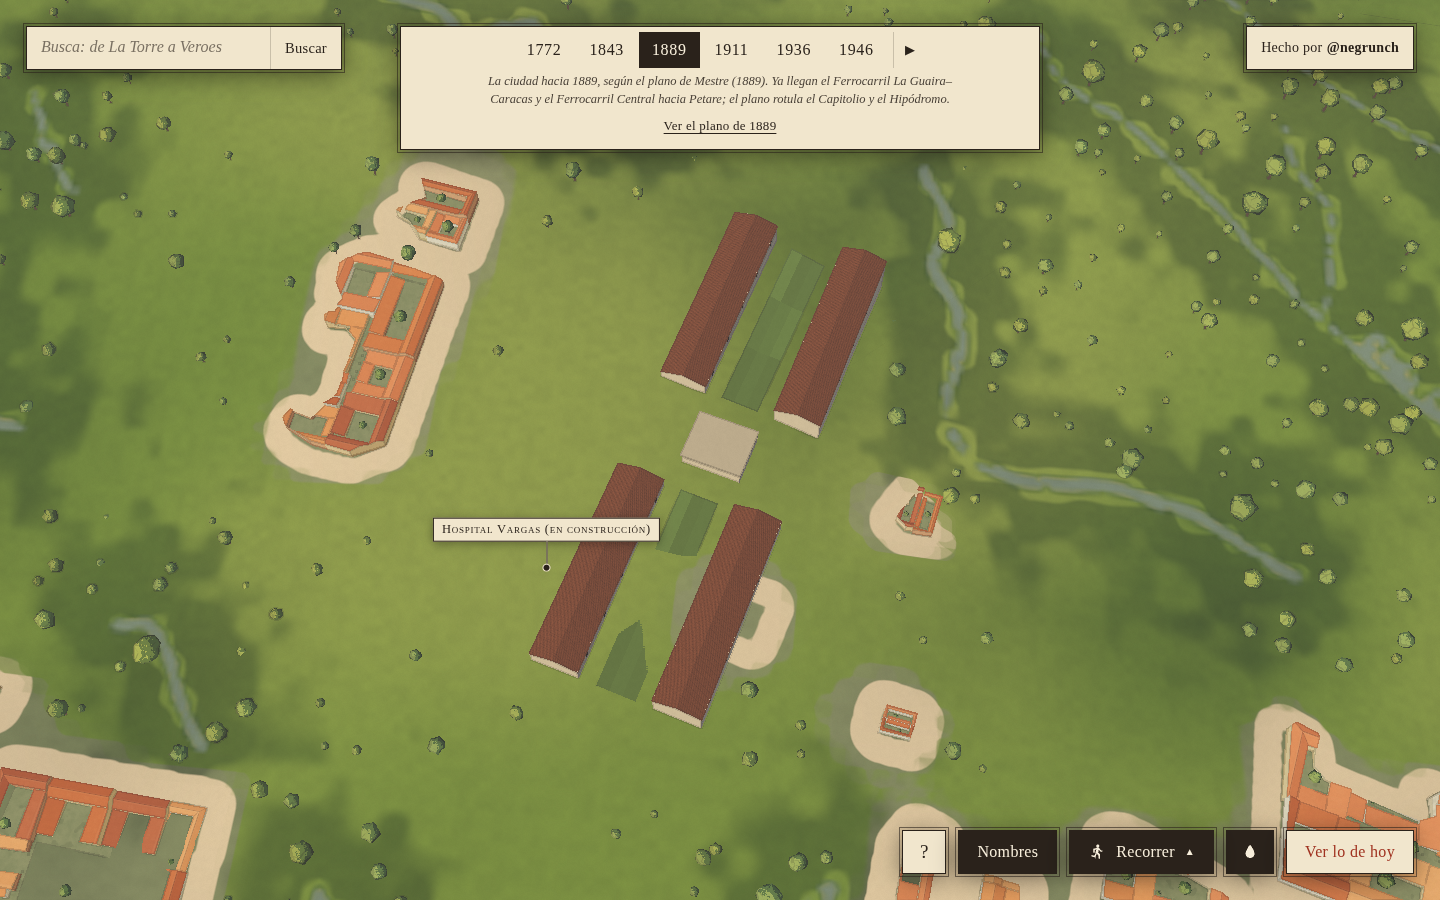
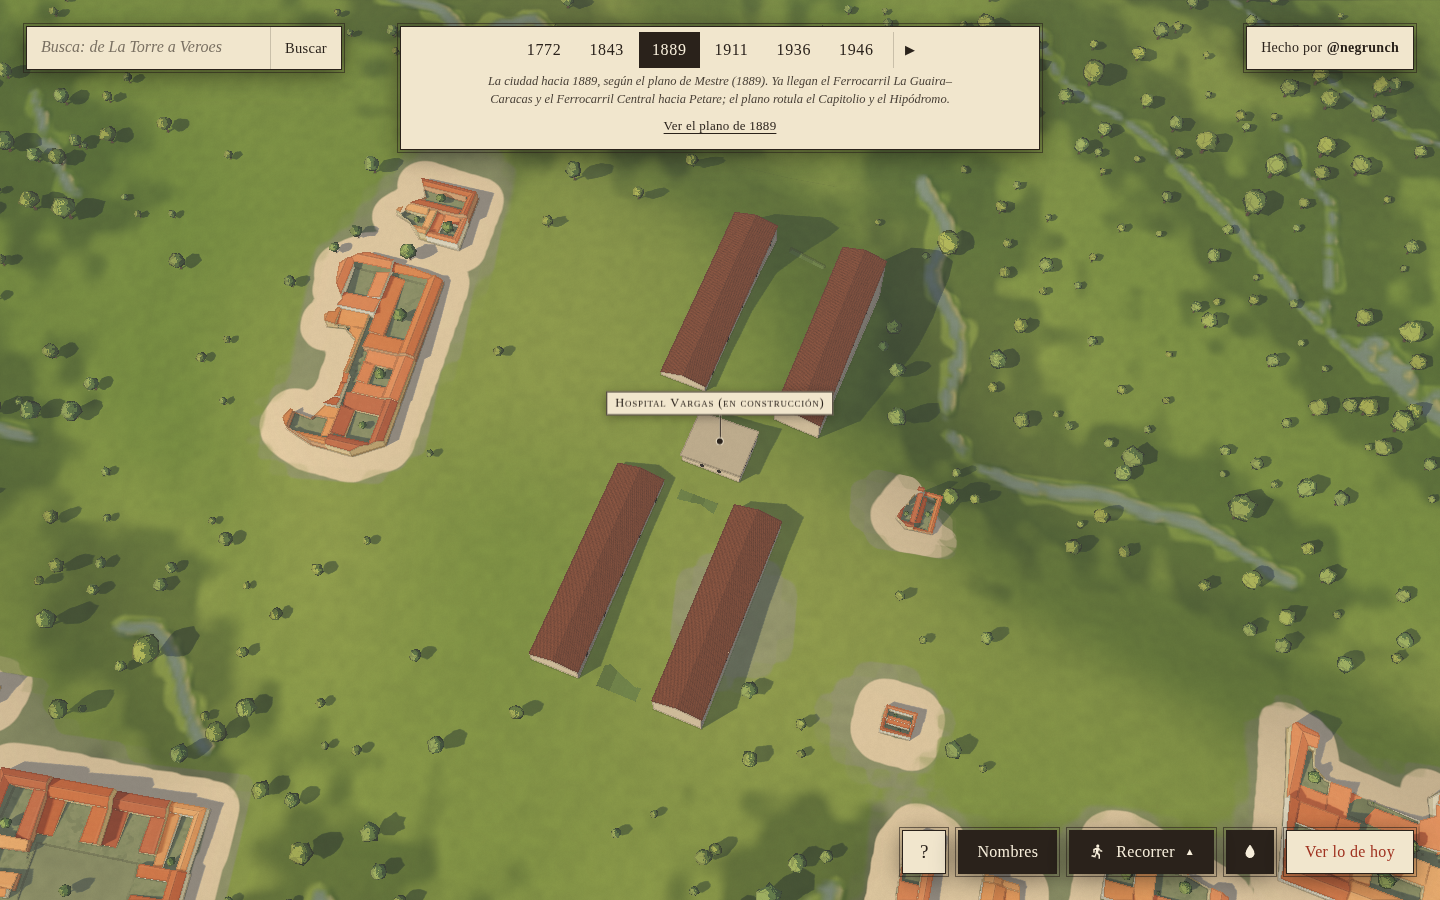
fix: vanos del núcleo del Hospital Vargas, marca enlazada al hito y ficha de 1936 y 1946 (#249) (#306)
* test: los vanos del núcleo del Hospital Vargas quedan en sus muros exteriores

Regresión de #249: los ocho vanos del núcleo de administración quedaban dentro de
su caja de 28 × 23 m y no se veían. Falla en main.

Claude-Session: https://claude.ai/code/session_016wLvLzPGE3irYQgPfs9SqY

* fix: vanos del núcleo del Hospital Vargas en sus muros exteriores

Los ocho vanos del núcleo de administración quedaban dentro de su caja de
28 × 23 m (x = ±8, z ≤ ±11,2) y no se veían en ninguna época. Ahora van dos
por fachada sobre los muros (±14,04 y ±11,54), mirando hacia afuera, como en
las salas. Trae el commit 2daee7a de feat/hospital-vargas, que quedó sin PR.

Refs #249

Claude-Session: https://claude.ai/code/session_016wLvLzPGE3irYQgPfs9SqY

* test: la marca del Hospital Vargas va enlazada al hito y la ficha cuenta 1936 y 1946

Refs #249

Claude-Session: https://claude.ai/code/session_016wLvLzPGE3irYQgPfs9SqY

* docs: evidencia por etapa del Hospital Vargas, reglas y lo que falta; capturas en las seis épocas

Refs #249

Claude-Session: https://claude.ai/code/session_016wLvLzPGE3irYQgPfs9SqY

* fix: la marca del Hospital Vargas va enlazada a su hito y la ficha cuenta 1936 y 1946

El rótulo caía a unos 96 m del centro, en el borde del solar; ahora toma la
posición del hito. La ficha gana el texto de las cubiertas planas (Caracas en
450: platabandas desde 1930, sin fecha por pabellón) y la duda de los anexos
de 1939. La marca ya no dice «hito arquitectónico pendiente».

Refs #249
[…]

diff --git a/tests/unit/hospital-vargas.test.js b/tests/unit/hospital-vargas.test.js
@@ -4,6 +4,13 @@ import { HITOS, construirHitos, validarHitos, zonasDeSupresion } from '../../src
 import { hitosConPlanta } from '../../src/hitos/plantas.js'
 import { hospitalVargas } from '../../src/hitos/datos/hospital-vargas.js'
 import { parteDe } from '../../src/hitos/partes.js'
+import { crearLienzo, lineal } from '../../src/hitos/lienzo.js'
+import { TONO } from '../../src/hitos/piezas.js'
+import { hospitalVargas as dibujarHospital } from '../../src/hitos/hospital-vargas.js'
+import { MARCAS } from '../../src/marcas-datos.js'
+import { FICHAS } from '../../src/fichas-datos.js'
+import { normalizarMarcas } from '../../src/marcas.js'
+import { contenidoDeFicha } from '../../src/fichas.js'
 
 const plano = { ancho: 18600, alto: 14800, metro: 0.5, plaza: [8968.2, 6839] }
 const coords = crearCoords(plano)
@@ -32,5 +39,64 @@ describe('Hospital Vargas', () => {
     const vidas = new Set()
     for (let i = rango.desde; i < rango.hasta; i++) vidas.add(`${datos.vidas[2 * i]}/${datos.vidas[2 * i + 1]}`)
     expect(vidas).toEqual(new Set(['3/4', '4/5', '5/0']))
+  })
+
+  test('los vanos del núcleo central quedan en sus muros exteriores, a la vista', () => {
+    // Núcleo de 28 × 23 m centrado en el origen; las salas quedan lejos (a = ±28, b = ±73).
+    const MEDIO_ANCHO = 14, MEDIO_FONDO = 11.5
+    const vano = lineal(TONO.VANO)
+    for (const anio of [1889, 1911, 1936]) {
+      const lienzo = crearLienzo()
+      dibujarHospital(lienzo.hito({ origen: { x: 0, z: 0 } }), { anio })
+      const { posiciones, colores, normales } = lienzo.datos()
+      const delNucleo = []
+      for (let i = 0; i < posiciones.length / 3; i++) {
+        const [x, z] = [posiciones[3 * i], posiciones[3 * i + 2]]
+        const esVano = [0, 1, 2].every(k => Math.abs(colores[3 * i + k] - vano[k]) < 1e-6)
+        if (esVano && Math.abs(x) < MEDIO_ANCHO + 2 && Math.abs(z) < MEDIO_FONDO + 2) delNucleo.push({ x, z, nx: Math.round(normales[3 * i]), nz: Math.round(normales[3 * i + 2]) })
+      }
+      const escondidos = delNucleo.filter(({ x, z }) => Math.abs(x) < MEDIO_ANCHO && Math.abs(z) < MEDIO_FONDO)
+      expect(escondidos, `${anio}`).toEqual([])
+      // Ocho vanos rectangulares (cuatro vértices cada uno): dos en cada una de las cuatro caras del núcleo.
+      expect(delNucleo, `${anio}`).toHaveLength(8 * 4)
+      const porCara = Map.groupBy(delNucleo, v => `${v.nx}/${v.nz}`)
+      expect([...porCara.keys()].sort(), `${anio}`).toEqual(['-1/0', '0/-1', '0/1', '1/0'])
+      for (const [cara, vertices] of porCara) {
+        const [nx, nz] = cara.split('/').map(Number)
+        // dos vanos por cara, uno a cada lado del eje, de 1,8 m de ancho
+        const alLargo = vertices.map(v => (nx ? v.z : v.x))
+        expect(vertices, `${anio} ${cara}`).toHaveLength(2 * 4)
+        expect(alLargo.filter(u => u < 0), `${anio} ${cara}`).toHaveLength(4)
+        expect(alLargo.filter(u => u > 0), `${anio} ${cara}`).toHaveLength(4)
+        // cada uno sobre su muro, del lado de afuera, y con la normal hacia afuera
+        for (const v of vertices) {
+          const afuera = nx ? v.x * nx - MEDIO_ANCHO : v.z * nz - MEDIO_FONDO
+          expect(afuera, `${anio} ${cara}`).toBeGreaterThan(0)
+          expect(afuera, `${anio} ${cara}`).toBeLessThan(0.2)
+        }
+      }
+    }
+  })
+  test('la marca va enlazada al hito y cae sobre su núcleo, no en el borde del solar', () => {
+    const dato = MARCAS.find(m => m.id === 'hospital-vargas')
+    expect(dato.hito).toBe('hospital-vargas')
+    expect(dato.x).toBeUndefined()
+    expect(dato.y).toBeUndefined()
+    const marca = normalizarMarcas(MARCAS, { hitos: HITOS, coords }).find(m => m.id === 'hospital-vargas')
+    expect([marca.px, marca.py]).toEqual([hospitalVargas.x, hospitalVargas.y])
+    expect(marca.nace).toBe(3)
+    expect(dato.dudas).not.toMatch(/pendiente/i)
+  })
+
+  test('la ficha cuenta las cubiertas planas desde 1936 y deja los anexos de 1939 como duda', () => {
+    const marca = normalizarMarcas(MARCAS, { hitos: HITOS, coords }).find(m => m.id === 'hospital-vargas')
+    const rige = epoca => contenidoDeFicha({ marca, ficha: FICHAS['hospital-vargas'], epoca }).parrafos.find(p => p.rige).texto
+    expect(rige(4)).not.toMatch(/platabanda/)
+    for (const epoca of [5, 6]) {
+      expect(rige(epoca)).toMatch(/platabandas/)
+      expect(rige(epoca)).toMatch(/1891/)
+    }
+    expect(FICHAS['hospital-vargas'].dudas).toMatch(/1939/)
+    expect(FICHAS['hospital-vargas'].dudas).toMatch(/1889/)
   })
 })

diff --git a/src/marcas-datos.js b/src/marcas-datos.js
@@ -148,9 +148,9 @@ export const MARCAS = Object.freeze([
   { id: 'san-carlos', nombres: [[2, 'Cuartel Veterano'], [3, 'Cuartel San Carlos']], x: 9150, y: 4980, nace: 2, nivel: 3, alto: 9,
     fuente: `${L43('s', 'Cuartel veterano')}; ${P89} (21 «Cuartel San Carlos»); ${P36} (edificio de patio); Mariana Flores, Cuartel San Carlos. Yacimiento veterano (2007): https://dialnet.unirioja.es/descarga/articulo/2321930.pdf`,
     dudas: 'Flores sitúa la construcción entre 1785 y 1790. No se representan obras en 1772. Hito arquitectónico pendiente: se conserva la posición del rótulo existente, no un nuevo levantamiento del edificio.' },
-  { id: 'hospital-vargas', nombres: [[3, 'Hospital Vargas (en construcción)', 'Las obras iniciadas en 1888 figuran en el plano de 1889.'], [4, 'Hospital Vargas', 'Inaugurado y puesto en funcionamiento en 1891.']], x: 9660, y: 4640, nace: 3, nivel: 2, alto: 9,
-    fuente: `${P89} (43 «Hospital Vargas»); ${P36} («Hospital Vargas»); Roger Escalona, Sociedad Venezolana de Historia de la Medicina (2006): https://revista.svhm.org.ve/ediciones/2006/1-2/art-3`,
-    dudas: 'La planta dibujada en 1889 no demuestra que todas sus alas estuvieran terminadas. Hito arquitectónico pendiente; no se reproduce un estado exacto de avance de obra.' },
+  { id: 'hospital-vargas', hito: 'hospital-vargas', nombres: [[3, 'Hospital Vargas (en construcción)', 'Las obras iniciadas en 1888 figuran en el plano de 1889.'], [4, 'Hospital Vargas', 'Inaugurado y puesto en funcionamiento en 1891.']], nace: 3, nivel: 2, alto: 9,
+    fuente: `${P89} (43 «Hospital Vargas»); ${P36} («Hospital Vargas»); Roger Escalona, Sociedad Venezolana de Historia de la Medicina (2006): https://revista.svhm.org.ve/ediciones/2006/1-2/art-3; platabandas desde 1930, Caracas en 450: https://banesco-prod-2019.s3.amazonaws.com/wp-content/uploads/Caracas-en-450.pdf`,
+    dudas: 'La planta dibujada en 1889 no demuestra que todas sus alas estuvieran terminadas: el modelo de ese año levanta lo que dibuja el plano, no un avance de obra medido. Las ampliaciones de 1939 no tienen planta que las ubique y no se modelan.' },
   { id: 'hijos-de-dios', nombre: 'Cementerio de los Hijos de Dios', hito: 'hijos-de-dios', alto: 5.5, nace: 3, nivel: 3, nota: 'Recinto clausurado, todavía en pie.', fuente: `${P36} («Cementerio de los Hijos de Dios»); ${P89} (cementerio a, «Concepción»); equivalencia de nombres: https://biblat.unam.mx/hevila/BoletindelaAcademiaNacionaldelaHistoriaCaracas/2009/vol92/no365/5.pdf; cronología: https://fundaayc.com/2018/02/09/1951-desaparece-el-cementerio-de-los-hijos-de-dios/`,
     dudas: 'Abierto en 1856, cerrado al uso en el siglo XIX y demolido después de 1946. Cerrar el cementerio no hizo desaparecer sus muros y nichos. Hito pendiente de integración; se conserva el ancla cartográfica existente.' },
   { id: 'san-jose', hito: 'san-jose', nombre: 'San José', nace: 4, nivel: 3, alto: 18, fuente: `${P36} («Iglesia San José»); ${P11} (dibuja el templo, con planta en cruz); IPC, Lo construido: https://albaciudad.org/wp-content/uploads/2017/01/Libertador-Construido2.pdf (pp. 125–126 y 148)`,

diff --git a/src/fichas-datos.js b/src/fichas-datos.js
@@ -310,8 +310,9 @@ export const FICHAS = Object.freeze({
     textos: [
       [3, 'Las obras del Hospital Vargas comenzaron en 1888. El plano de Mestre de 1889 ya dibuja su planta y lo identifica con el número 43, pero el hospital aún no estaba inaugurado.'],
       [4, 'El Hospital Vargas fue inaugurado el 1 de enero de 1891 y comenzó a atender pacientes el 5 de julio de ese año, según la investigación de Roger Escalona publicada por la Sociedad Venezolana de Historia de la Medicina.'],
+      [5, 'El Hospital Vargas, en servicio desde 1891, cambió de techos después de 1930: según Caracas en 450, las cubiertas ojivales de madera se sustituyeron por platabandas, sin fecha para cada pabellón. Aquí llevan cubierta plana desde 1936.'],
     ],
-    dudas: 'El plano de 1889 permite localizar el proyecto, no determinar el avance exacto de sus obras.',
+    dudas: 'El plano de 1889 permite localizar el proyecto, no determinar el avance exacto de sus obras: el modelo de ese año levanta la planta que el plano dibuja. No consta en qué año se cambió la cubierta de cada pabellón: que en 1936 ya fueran planas es una interpretación. Una fuente médica de 1953 fecha en 1939 tres pabellones nuevos (Carlos J. Bello, Ángel Larralde y de lactantes), pero no hay planta que los ubique: no se modelan.',
   },
 
   // --- el oeste ---

diff --git a/src/hitos/hospital-vargas.js b/src/hitos/hospital-vargas.js
@@ -48,8 +48,13 @@ export function hospitalVargas(p, { anio = 1889 } = {}) {
   caja(nucleo, { ancho: 28, fondo: 23, alto: 6.2, color: TONO.CAL })
   caja(nucleo.en(0, 6.2, 0), { ancho: 29.2, fondo: 24.2, alto: 0.55, color: TONO.PIEDRA_CLARA, flota: true })
   caja(nucleo.en(0, 0, 0), { ancho: 8, fondo: 8, alto: 0.15, color: [4, 4, -1], mat: MAT.JARDIN })
-  for (const [a, b] of [[-8, 0], [8, 0], [0, -7], [0, 7]]) {
-    for (const z of [-4.2, 4.2]) vano(nucleo.mirando(a, 1.8, b + z, 0, Math.sign(z)), { ancho: 1.8, alto: 2.8, arco: false })
+  // Dos vanos por fachada, sobre los muros exteriores (28 × 23 m) y mirando hacia afuera.
+  const [medioAncho, medioFondo] = [28 / 2 + 0.04, 23 / 2 + 0.04]
+  for (const s of [-1, 1]) {
+    for (const d of [-4.2, 4.2]) {
+      vano(nucleo.mirando(d, 1.8, s * medioFondo, 0, s), { ancho: 1.8, alto: 2.8, arco: false })
+      vano(nucleo.mirando(s * medioAncho, 1.8, d, s, 0), { ancho: 1.8, alto: 2.8, arco: false })
+    }
   }
 
   // Los corredores y patios se leen como espacios abiertos; no se añaden anexos sin ubicación documental.

diff --git a/tests/e2e/hospital-vargas.spec.js b/tests/e2e/hospital-vargas.spec.js
@@ -15,6 +15,8 @@ test('el Hospital Vargas aparece desde 1889 y conserva fases hasta 1946', async 
   })
   expect(datos?.vertices).toBeGreaterThan(1000)
   expect(datos?.fases).toEqual(expect.arrayContaining(['3/4', '4/5', '5/0']))
+  // ningún vértice nace antes de 1889 (época 3): en 1772 y 1843 el hospital no se dibuja
+  expect(datos.fases.filter(f => Number(f.split('/')[0]) < 3)).toEqual([])
   for (const epoca of [1, 2, 3, 4, 5, 6]) {
     await page.evaluate(e => window.lab.lineaDeTiempo.elegir(e), epoca)
     await page.waitForFunction(e => Math.round(window.lab.ciudad.U.uEpocaA.value) === e, epoca)

diff --git a/docs/issue-249-hospital-vargas.md b/docs/issue-249-hospital-vargas.md
@@ -1,6 +1,6 @@
 # Hospital Vargas — issue #249
 
-**Estado de esta integración:** modelo arquitectónico enlazado a la marca y ficha que ya existían en `main`. El issue permanece abierto: faltan ubicar y documentar las ampliaciones de 1939, si las fuentes permiten hacerlo.
+**Estado:** modelo instalado por el [PR #289](https://github.com/grunch/caracas/pull/289) (fusionado el 27-11-2026). El 28-11-2026 se corrigieron los vanos del núcleo, se enlazó la marca al hito, se completó la ficha de 1936 y 1946 y se añadieron las capturas de 1772 y 1843. El issue permanece abierto: ver [Qué falta](#qué-falta).
 
 ## Evidencia y fechas
 
@@ -11,6 +11,23 @@
 - [Caracas en 450](https://banesco-prod-2019.s3.amazonaws.com/wp-content/uploads/Caracas-en-450.pdf) resume la sustitución, desde 1930, de techos ojivales de madera por platabandas. El modelo cambia a cubierta plana en 1936 y la conserva en 1946.
 
 Las ampliaciones de los pabellones Carlos J. Bello, Ángel Larralde y de lactantes se fechan en 1939 en una fuente médica de 1953, pero no se ha encontrado una planta que los sitúe inequívocamente. No se añadieron como volúmenes geolocalizados. Las fotografías y el grabado se enlazan como referencia; no se descargaron ni redistribuyeron. La licencia de la imagen de 1892 no está verificada.
+
+## Evidencia por etapa
+
+| Fecha del hecho | Documento (fecha del documento) | Qué permite representar | Qué no demuestra | Certeza |
+|---|---|---|---|---|
+| 1885 y 1888 | Escalona, SVHM (2006) | Decreto y comienzo de las obras: nada antes de 1889 | El avance de la obra en una fecha dada | Secundaria |
+| 1889 | Plano de Mestre (1889), n.º 43 | Emplazamiento y planta: dos filas de pabellones, núcleo y galerías | Que los pabellones estuvieran terminados o techados: el hospital no se había inaugurado | Primaria (cartográfica); calce RMS «dejando uno fuera» de 7,64 m |
+| 1-01-1891 y 5-07-1891 | Escalona, SVHM (2006) | Inauguración y primeros pacientes: «Hospital Vargas», sin «en construcción», desde la época de 1911 | Cambios de la planta entre 1889 y 1911 | Secundaria |
+| 1892 | Grabado de *El Cojo Ilustrado*, 1-01-1892, p. 12 | Una galería interior | La fachada completa; licencia de la reproducción no verificada | Primaria, parcial |
+| Desde 1930 | *Caracas en 450* (releído el 28-11-2026): «Desde 1930 la estructura original […] ha sufrido cambios importantes: los techos de madera –ojivales– fueron sustituidos por platabandas»; remite a Chacín Álvarez, *Cien años del Hospital Vargas (1891-1991)*, que no se consultó | Cubierta plana en las épocas posteriores a 1930 | El año de cada pabellón, ni que en 1936 ya estuvieran cambiadas: ponerlas planas desde 1936 es una interpretación | Secundaria |
+| 1939 | «Reporte médico de 1953», citado por el estudio de Miraflores sin referencia completa | Nada: nombra tres pabellones nuevos (Carlos J. Bello, Ángel Larralde y de lactantes) | Dónde estaban ni qué forma tenían | Secundaria, sin referencia localizable |
+
+**Contradicción pendiente.** El issue pide no inventar pabellones terminados en 1889. El visor levanta en 1889 las
+cuatro filas de salas con su tejado, igual que en 1911 salvo las galerías, mientras el rótulo y la ficha dicen «en
+construcción». El estudio de Miraflores los deja sin cubierta ni galerías (`enObra`). Ninguna fuente dice qué había
+levantado en 1889, así que cualquiera de las dos representaciones es una convención. No se cambió acá: es una
+decisión del responsable, con las capturas de 1889 a la vista.
 
 ## Integración en Caracas
 
@@ -25,7 +42,36 @@ El hito reconstruye el núcleo y las cuatro filas de salas legibles en 1889. Los
 
 ## Capturas
 
-Las capturas comparables de 1889, 1911, 1936 y 1946 se adjuntan en [`docs/capturas/hospital-vargas/`](capturas/hospital-vargas/) con la misma cámara. Cada año muestra la planta de pabellones; 1936 y 1946 muestran las cubiertas planas descritas por la fuente histórica. `perspectiva-1911.png` muestra las galerías y fachadas desde un ángulo bajo.
+Las capturas comparables de las seis épocas están en [`docs/capturas/hospital-vargas/`](capturas/hospital-vargas/), con la misma cámara (`tests/e2e/capturas-hospital-vargas.mjs`) y los datos regenerados con R13 (28-11-2026). En 1772 y 1843 no hay hospital; de 1889 a 1946 se ve la planta de pabellones, con cubierta plana en 1936 y 1946. `perspectiva-1911.png` muestra las galerías, las fachadas y los vanos del núcleo desde un ángulo bajo; `antes-perspectiva-1911.png` es la misma vista en `main`, con el núcleo ciego.
+
+| 1772 | 1843 | 1889 |
+| --- | --- | --- |
+| ![1772](capturas/hospital-vargas/1772.png) | ![1843](capturas/hospital-vargas/1843.png) | ![1889](capturas/hospital-vargas/1889.png) |
+
+| 1911 | 1936 | 1946 |
+| --- | --- | --- |
+| ![1911](capturas/hospital-vargas/1911.png) | ![1936](capturas/hospital-vargas/1936.png) | ![1946](capturas/hospital-vargas/1946.png) |
+
+## Marca y reglas de construcción
+
+- **R9, cada nombre en su lugar.** La marca tenía una coordenada suelta, (9660, 4640), a unos 96 m del centro del
+  hito: caía en el borde suroeste del solar, sobre el jardín. Ahora va enlazada (`hito: 'hospital-vargas'`) y toma
+  la posición del hito, (9796, 4503), sobre el núcleo.
+- **R13, ningún hito sobre una manzana.** Medido en `main` por #291 ([`manzanas-hitos.md`](manzanas-hitos.md)): el
+  recinto (27.000 m²) es mayor que las manzanas que pisa, que se retiran enteras de 1889 a 1946. Este cambio no
+  toca la huella ni la reserva, así que la tabla no cambia.
+- **R11, sin anacronismos.** El E2E comprueba que ningún vértice del hospital nace antes de 1889.
+- R1 a R12 con `tools/geo/reglas_mapa.py`: no se pudieron medir, la herramienta no existe todavía (F1 de `specs/13`).
+
+## Qué falta
+
+1. **Los anexos de 1939.** Falta una planta del hospital de 1939 a 1953, o una foto aérea rotulada, que ubique los
+   tres pabellones; y falta identificar el «reporte médico de 1953» (el estudio lo cita sin autor, título ni
+   enlace). Comparar el recorte [9000,4000,10200,5100] entre los planos de 1936 y 1946 mostraría volúmenes nuevos,
+   pero no les pondría nombre.
+2. **1889 en obras.** Decidir si los pabellones van sin cubierta (ver la contradicción de arriba).
+3. **Prueba a mano de una persona** de las seis épocas.
+4. **Datos.** Regenerar y publicar los datos después de los cambios de hitos (`npm run datos:al-dia` avisa).
 
 ## Límites
 

diff --git a/specs/07-plan-de-implementacion.md b/specs/07-plan-de-implementacion.md
@@ -119,7 +119,7 @@ fase, las tareas sin dependencias entre sí pueden ir en paralelo.
 | T42 | Marcas (etiquetas 3D por época, niveles, declutter, velo al pasar el mouse) | T25 | las marcas cambian con el año | ✅ #39 |
 | T42.103 | Majestic 1936 y San Bernardino 1946; corregir anacronismos (#103) | T42, T43 | Marcas y fichas documentadas; modelo Majestic pendiente en T41 | 🔄 [PR #238](https://github.com/grunch/caracas/pull/238), listo para revisión; revisión humana pendiente |
 | T42.93 | Bellas Artes: sede en 1936, inauguración 1938 (#93) | T42, T43 | Conservar el edificio documentado sin anticipar su apertura | 🔄 [PR #237](https://github.com/grunch/caracas/pull/237), listo para revisión; revisión humana pendiente |
-| T42.92 | Hospital Vargas: obras en 1889, abierto desde 1891 (#92) | T42, T43 | Rótulo y ficha distinguen ambas etapas | 🔄 [PR #236](https://github.com/grunch/caracas/pull/236), listo para revisión; revisión humana pendiente |
+| T42.92 | Hospital Vargas: obras en 1889, abierto desde 1891 (#92); modelo de pabellones (#249) | T42, T43 | Rótulo y ficha distinguen ambas etapas; hito en tres fases | ✅ [PR #236](https://github.com/grunch/caracas/pull/236) y [PR #289](https://github.com/grunch/caracas/pull/289) (modelo), fusionados. 🔄 [PR #306](https://github.com/grunch/caracas/pull/306): vanos del núcleo, marca enlazada al hito, ficha de 1936 y 1946 y capturas de las seis épocas. #249 sigue abierto: anexos de 1939 sin ubicar, estado de 1889 a decisión del responsable, prueba a mano de una persona |
 | T42.101 | Separar paseo de 1873 y arco de 1895 (#101) | T42, T43 | Arco desde 1911; sin anacronismo en 1889 | 🔄 [PR #235](https://github.com/grunch/caracas/pull/235), listo para revisión; revisión humana pendiente |
 | T42.100 | Cementerio General del Sur desde 1889 (#100) | T42, T43 | Rótulo dentro del plano y ficha documentada | 🔄 [PR #234](https://github.com/grunch/caracas/pull/234), listo para revisión; revisión humana pendiente |
 | T42.91 | Cuartel Veterano desde 1843, cronología documentada (#91) | T42, T43 | Rótulo y ficha desde 1843, ausencia en 1772 | 🔄 [PR #233](https://github.com/grunch/caracas/pull/233), listo para revisión; revisión humana pendiente |
